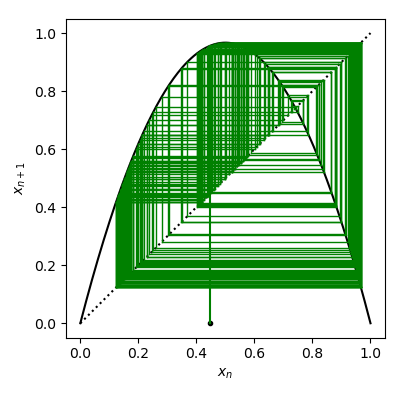
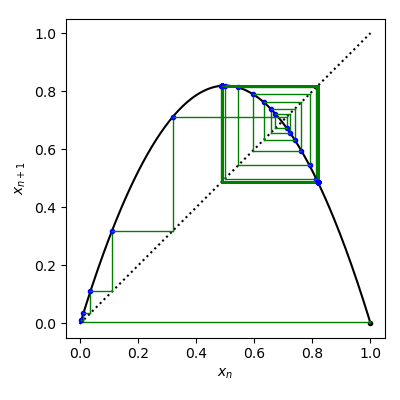
colocando plots em colunas e alterando cores

Changed region(s): [[0.18, 0.09, 0.93, 0.84]]

diff --git a/LogisticMap.py b/LogisticMap.py
@@ -30,6 +30,7 @@ def cobweb(f, x0, N, a=0, b=1):
             X.append(fy)
             plt.plot([x, y], [y,  y], 'g', linewidth=1)
             plt.plot([y, y], [y, fy], 'g', linewidth=1)
+            plt.plot(y, fy, 'b.')
             x, y = y, fy
         plt.xlabel(r'$x_n$')
         plt.ylabel(r'$x_{n+1}$')
@@ -49,7 +50,8 @@ def Evolucao(X):
     ymin = 0 if ymin<0 else ymin
     ymax = 1 if ymax>1 else ymax
     fig2 = plt.figure(figsize=(5,4))
-    plt.plot(T[ini:], X[ini:], 'k.-')
+    plt.plot(T[ini:], X[ini:], '-', color='cyan')
+    plt.plot(T[ini:], X[ini:], 'b.')
     plt.xlabel(r'$n$')
     plt.ylabel(r'$x_n$')
     plt.ylim(ymin,ymax)
@@ -74,7 +76,7 @@ def main():
     st.sidebar.markdown("## Controles:")
     r  = st.sidebar.slider('Valor de r :', min_value=0.0, max_value=4.0, step=0.001, value=3.8)
     x0 = st.sidebar.slider('Valor de x0 :', min_value=0.0, max_value=0.999, step=0.001, value=0.25)
-    N = st.sidebar.slider('Núm. máximo de iterações :', min_value=5, max_value=2000, step=1, value=90)
+    N = st.sidebar.slider('Núm. máximo de iterações :', min_value=5, max_value=2000, step=1, value=80)
     #
     # Colunas:
     col1, col2, col3 = st.columns([4,1,4])
